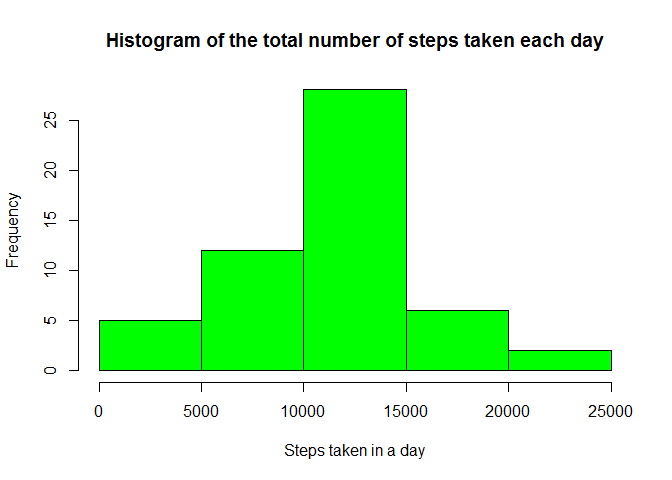
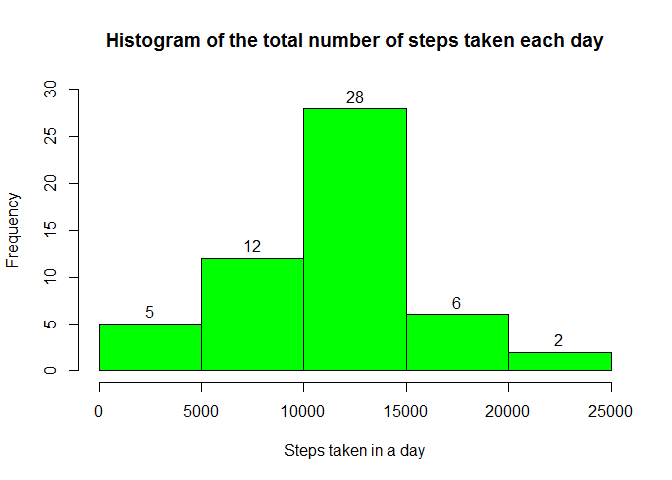
Further progress made on analysis

diff --git a/PA1_template.html b/PA1_template.html
@@ -186,7 +186,7 @@ $(document).ready(function () {
 <li>Calculate the total number of steps taken per day</li>
 </ol>
 <pre class="r"><code>    # sum steps by date
-    dailysteps&lt;-aggregate(steps ~ date, mydata, FUN=sum)
+    dailysteps&lt;-aggregate(steps ~ date, mydata, FUN=sum, na.action=na.omit)
     dailysteps</code></pre>
 <pre><code>##          date steps
 ## 1  2012-10-02   126
@@ -246,8 +246,8 @@ $(document).ready(function () {
 <li>If you do not understand the difference between a histogram and a barplot, research the difference between them. Make a histogram of the total number of steps taken each day</li>
 </ol>
 <pre class="r"><code>    ### plot histogram of the total number of steps per day
-    hist(dailysteps$steps, xlab=&quot;Steps taken in a day&quot;, main=&quot;Histogram of the total number of steps taken each day&quot;, col=&quot;green&quot;)</code></pre>
[1 lines of base64/hex data omitted]
+    hist(dailysteps$steps, xlab=&quot;Steps taken in a day&quot;, main=&quot;Histogram of the total number of steps taken each day&quot;, col=&quot;green&quot;, ylim=c(0,30), labels=TRUE)</code></pre>
[1 lines of base64/hex data omitted]
 <ol start="3" style="list-style-type: decimal">
 <li>Calculate and report the mean and median of the total number of steps taken per day</li>
 </ol>
@@ -257,9 +257,25 @@ $(document).ready(function () {
 ##      41    8841   10760   10770   13290   21190</code></pre>
 <p><strong>What is the average daily activity pattern?</strong></p>
 <ol style="list-style-type: decimal">
-<li><p>Make a time series plot (i.e. <strong>type = “l”</strong>) of the 5-minute interval (x-axis) and the average number of steps taken, averaged across all days (y-axis)</p></li>
-<li><p>Which 5-minute interval, on average across all the days in the dataset, contains the maximum number of steps?</p></li>
+<li>Make a time series plot (i.e. <strong>type = “l”</strong>) of the 5-minute interval (x-axis) and the average number of steps taken, averaged across all days (y-axis)</li>
 </ol>
+<pre class="r"><code>    # summarize the average steps across all days for each 5-minute interval
+    intervalstepsavg&lt;-aggregate(steps ~ interval, mydata, FUN=mean, na.action=na.omit)
+    
+    # plot a line/time series (intervals) chart with steps averaged across all days
+    plot(intervalstepsavg$interval, intervalstepsavg$steps, type = &quot;l&quot;, xlab=&quot;5-minute interval (in a day)&quot;, ylab=&quot;Average number of steps taken, across all days&quot;, main=&quot;Average number of steps taken (5-minute intervals in a day)&quot;, col=&quot;blue&quot;, ylim=c(0,250))</code></pre>
[1 lines of base64/hex data omitted]
+<pre class="r"><code>    #axis(1, at=unique(intervalstepsavg$interval)[seq(1,288,by=60)])</code></pre>
+<ol start="2" style="list-style-type: decimal">
+<li>Which 5-minute interval, on average across all the days in the dataset, contains the maximum number of steps?</li>
+</ol>
+<pre class="r"><code>    # find the max of the averages
+    maxintervalstepsavg=intervalstepsavg[which.max(intervalstepsavg$steps),]
+    maxintervalstepsavg</code></pre>
+<pre><code>##     interval    steps
+## 104      835 206.1698</code></pre>
+<pre class="r"><code>    # label the maximum point
+    #text(maxintervalstepsavg$interval, maxintervalstepsavg$steps, labels=c(&quot;max point&quot;))</code></pre>
 <p><strong>Imputing missing values</strong></p>
 <p>Note that there are a number of days/intervals where there are missing values (coded as <strong>NA</strong>). The presence of missing days may introduce bias into some calculations or summaries of the data.</p>
 <ol style="list-style-type: decimal">

diff --git a/PA1_template.md b/PA1_template.md
@@ -16,6 +16,7 @@ The data for this assignment can be downloaded from this [link](https://d396qusz
 
 Though unecessary, the code snippet below can be used to retrieve a copy of the data from the provided link.
 
+
 ```r
     # retrieve a fresh copy of the data set, if missing
     url<-"https://d396qusza40orc.cloudfront.net/repdata%2Fdata%2Factivity.zip"
@@ -110,7 +111,7 @@ For this part of the assignment, you can ignore the missing values in the datase
 
 ```r
     # sum steps by date
-    dailysteps<-aggregate(steps ~ date, mydata, FUN=sum)
+    dailysteps<-aggregate(steps ~ date, mydata, FUN=sum, na.action=na.omit)
     dailysteps
 ```
 
@@ -176,7 +177,7 @@ For this part of the assignment, you can ignore the missing values in the datase
 
 ```r
     ### plot histogram of the total number of steps per day
-    hist(dailysteps$steps, xlab="Steps taken in a day", main="Histogram of the total number of steps taken each day", col="green")
+    hist(dailysteps$steps, xlab="Steps taken in a day", main="Histogram of the total number of steps taken each day", col="green", ylim=c(0,30), labels=TRUE)
 ```
 
 ![](PA1_template_files/figure-html/histstepsperday-1.png)<!-- -->
@@ -199,7 +200,40 @@ For this part of the assignment, you can ignore the missing values in the datase
 
 1. Make a time series plot (i.e. **type = "l"**) of the 5-minute interval (x-axis) and the average number of steps taken, averaged across all days (y-axis)
 
+
+```r
+    # summarize the average steps across all days for each 5-minute interval
+    intervalstepsavg<-aggregate(steps ~ interval, mydata, FUN=mean, na.action=na.omit)
+    
+    # plot a line/time series (intervals) chart with steps averaged across all days
+    plot(intervalstepsavg$interval, intervalstepsavg$steps, type = "l", xlab="5-minute interval (in a day)", ylab="Average number of steps taken, across all days", main="Average number of steps taken (5-minute intervals in a day)", col="blue", ylim=c(0,250))
+```
+
+![](PA1_template_files/figure-html/intervalsteps-1.png)<!-- -->
+
+```r
+    #axis(1, at=unique(intervalstepsavg$interval)[seq(1,288,by=60)])
+```
+
+
 2. Which 5-minute interval, on average across all the days in the dataset, contains the maximum number of steps?
+
+
+```r
+    # find the max of the averages
+    maxintervalstepsavg=intervalstepsavg[which.max(intervalstepsavg$steps),]
+    maxintervalstepsavg
+```
+
+```
+##     interval    steps
+## 104      835 206.1698
+```
+
+```r
+    # label the maximum point
+    #text(maxintervalstepsavg$interval, maxintervalstepsavg$steps, labels=c("max point"))
+```
 
 
 **Imputing missing values**
